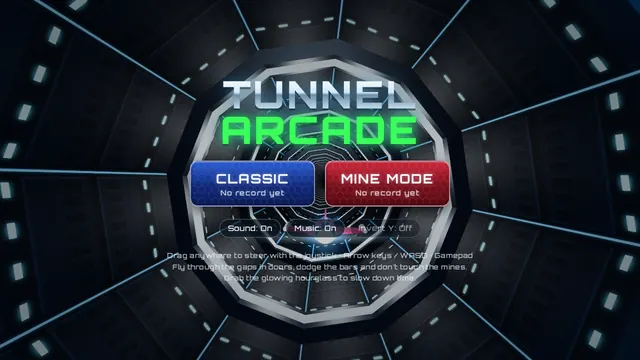
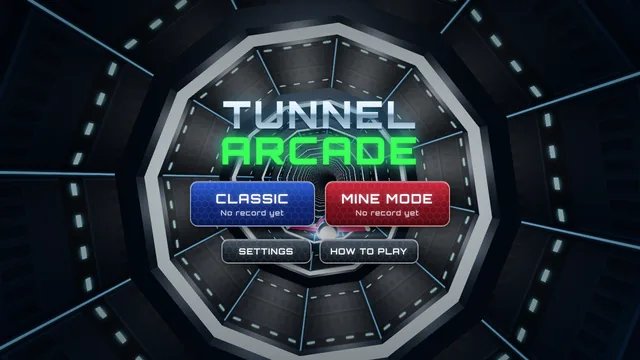
Update the Tunnel Arcade title screen screenshot
The game's landing page now has Settings and How to Play buttons in place
of the old sound/music/invert toggles and the controls text. Recaptured the
title screen at 1280x720 (plus the 640 thumbnail) from a local build, and
updated the alt text to name the new buttons.

Claude-Session: https://claude.ai/code/session_01UcVyELWBU3hae6ZeWZBBqc

diff --git a/index.html b/index.html
@@ -287,7 +287,7 @@
               data-alt="Tunnel Arcade: spiked mines drift through the sandstone Catacomb tunnel in Mine Mode"><img src="assets/shots/tunnel-catacomb-640.webp" alt="Catacomb tunnel in Mine Mode" width="640" height="360" loading="lazy"></button></li>
             <li><button type="button" class="thumb" aria-pressed="false" data-shot="tunnel-menu"
               data-caption="Title screen: Classic or Mine Mode"
-              data-alt="Tunnel Arcade title screen with Classic and Mine Mode buttons"><img src="assets/shots/tunnel-menu-640.webp" alt="Title screen" width="640" height="360" loading="lazy"></button></li>
+              data-alt="Tunnel Arcade title screen with Classic, Mine Mode, Settings and How to Play buttons"><img src="assets/shots/tunnel-menu-640.webp" alt="Title screen" width="640" height="360" loading="lazy"></button></li>
           </ul>
         </figure>
 
